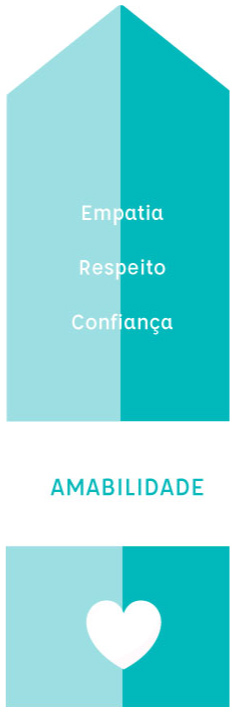
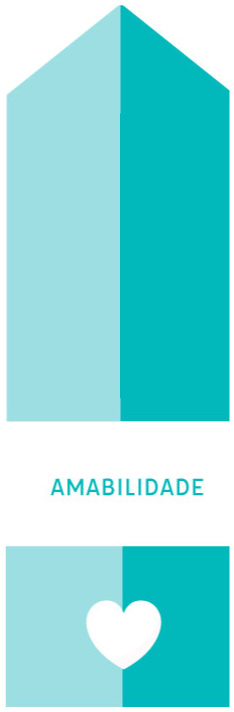
Mocc3 Uni2 revisão

Changed region(s): [[0.2991, 0.1545, 0.7479, 0.5562]]

diff --git a/mod3/uni2/tela05.html b/mod3/uni2/tela05.html
@@ -6,7 +6,8 @@
     <meta name="viewport" content="width=device-width, initial-scale=1" />
     <link rel="stylesheet" href="../../css/mooc3.css?ver=1.1"/>    
     <link rel="stylesheet" href="../../css/boxes.css?ver=1.2" />
-    <link rel="stylesheet" href="../../css/menu.css?ver=1.2"/>    
+    <link rel="stylesheet" href="../../css/menu.css?ver=1.2"/>
+    <link rel="stylesheet" href="../../css/ponto-interesse.css?ver=1.6"/>
        
 
     <!-- Botão de Voltar ao Topo -->
@@ -97,25 +98,117 @@
                         &nbsp
                     </div>
                     <div class="2u 4u$(small)" style="clear: none;">
-                        <img class="image fit" width="100%" src="../../img/uni2/MOOC3_Uni2_Tela5_Imagem1a.jpg">
+
+                        <!-- Ponto Interesse -->
+                        <div class="ponto-interesse cd-product cd-container">
+                            <div class="cd-product-wrapper">
+                                <img class="image fit" width="100%" src="../../img/uni2/MOOC3_Uni2_Tela5_Imagem1a.jpg">
+                                <ul>
+                                    <li class="cd-single-point mooc3-ponto1-uni2-tela5">
+                                        <a class="cd-img-replace" href="#0">More</a>
+                                        <div class="cd-more-info cd-top">
+                                            <h2>Autogestão:</h2>
+                                            <p>
+                                                &#10095; Determinação<br>&#10095; Organização<br>&#10095; Foco<br>&#10095; Persistência<br>&#10095; Responsabilidade
+                                            </p>
+                                            <a href="#0" class="cd-close-info cd-img-replace">Close</a>
+                                        </div>
+                                    </li> <!-- .cd-single-point -->
+                                </ul>
+                            </div> <!-- .cd-product-wrapper -->
+                        </div> <!-- .cd-product -->
+
                     </div>
                     <div class="2u 4u$(small)" style="clear: none;">
-                        <img class="image fit" width="100%" src="../../img/uni2/MOOC3_Uni2_Tela5_Imagem1b.jpg">
+                        <!-- Ponto Interesse -->
+                        <div class="ponto-interesse cd-product cd-container">
+                            <div class="cd-product-wrapper">
+                                <img class="image fit" width="100%" src="../../img/uni2/MOOC3_Uni2_Tela5_Imagem1b.jpg">
+                                <ul>
+                                    <li class="cd-single-point mooc3-ponto1-uni2-tela5">
+                                        <a class="cd-img-replace" href="#0">More</a>
+                                        <div class="cd-more-info cd-top">
+                                            <h2>Engajamento com os outros:</h2>
+                                            <p>
+                                                &#10095; Iniciativa Social<br>&#10095; Assertividade<br>&#10095; Entusiasmo
+                                            </p>
+                                            <a href="#0" class="cd-close-info cd-img-replace">Close</a>
+                                        </div>
+                                    </li> <!-- .cd-single-point -->
+                                </ul>
+                            </div> <!-- .cd-product-wrapper -->
+                        </div> <!-- .cd-product -->
+
                     </div>
                     <div class="2u 4u$(small)" style="clear: none;">
-                        <img class="image fit" width="100%" src="../../img/uni2/MOOC3_Uni2_Tela5_Imagem1c.jpg">
+                        <!-- Ponto Interesse -->
+                        <div class="ponto-interesse cd-product cd-container">
+                            <div class="cd-product-wrapper">
+                                <img class="image fit" width="100%" src="../../img/uni2/MOOC3_Uni2_Tela5_Imagem1c.jpg">
+                                <ul>
+                                    <li class="cd-single-point mooc3-ponto1-uni2-tela5">
+                                        <a class="cd-img-replace" href="#0">More</a>
+                                        <div class="cd-more-info cd-top">
+                                            <h2>Amabilidade:</h2>
+                                            <p>
+                                                &#10095; Empatia<br>&#10095; Respeito<br>&#10095; Confiança
+                                            </p>
+                                            <a href="#0" class="cd-close-info cd-img-replace">Close</a>
+                                        </div>
+                                    </li> <!-- .cd-single-point -->
+                                </ul>
+                            </div> <!-- .cd-product-wrapper -->
+                        </div> <!-- .cd-product -->
+
                     </div>
                     <div class="2u 4u$(small)" style="clear: none;">
-                        <img class="image fit" width="100%" src="../../img/uni2/MOOC3_Uni2_Tela5_Imagem1d.jpg">
+                        <!-- Ponto Interesse -->
+                        <div class="ponto-interesse cd-product cd-container">
+                            <div class="cd-product-wrapper">
+                                <img class="image fit" width="100%" src="../../img/uni2/MOOC3_Uni2_Tela5_Imagem1d.jpg">
+                                <ul>
+                                    <li class="cd-single-point mooc3-ponto1-uni2-tela5">
+                                        <a class="cd-img-replace" href="#0">More</a>
+                                        <div class="cd-more-info cd-top">
+                                            <h2>Resiliência emocional:</h2>
+                                            <p>
+                                                &#10095; Tolerância ao estresse<br>&#10095; Autoconfiança<br>&#10095; Tolerância à frustração
+                                            </p>
+                                            <a href="#0" class="cd-close-info cd-img-replace">Close</a>
+                                        </div>
+                                    </li> <!-- .cd-single-point -->
+                                </ul>
+                            </div> <!-- .cd-product-wrapper -->
+                        </div> <!-- .cd-product -->
+
                     </div>
                     <div class="2u 4u$(small)" style="clear: none;">
-                        <img class="image fit" width="100%" src="../../img/uni2/MOOC3_Uni2_Tela5_Imagem1e.jpg">
+                        <!-- Ponto Interesse -->
+                        <div class="ponto-interesse cd-product cd-container">
+                            <div class="cd-product-wrapper">
+                                <img class="image fit" width="100%" src="../../img/uni2/MOOC3_Uni2_Tela5_Imagem1e.jpg">
+                                <ul>
+                                    <li class="cd-single-point mooc3-ponto1-uni2-tela5">
+                                        <a class="cd-img-replace" href="#0">More</a>
+                                        <div class="cd-more-info cd-top">
+                                            <h2>Abertura ao novo:</h2>
+                                            <p>
+                                                &#10095; Curiosidade para aprender<br>&#10095; Imaginação criativa<br>&#10095; Interesse artístico
+                                            </p>
+                                            <a href="#0" class="cd-close-info cd-img-replace">Close</a>
+                                        </div>
+                                    </li> <!-- .cd-single-point -->
+                                </ul>
+                            </div> <!-- .cd-product-wrapper -->
+                        </div> <!-- .cd-product -->
+
                     </div>
                     <div class="1u 12u$(small)">
                         &nbsp
                     </div>
                 </div>
                 <p class="legenda-img">Figura 06 - Fonte: Imagem desenvolvida pela equipe gráfica do projeto.</p>
+                <script src="../../js/main.js"></script> <!-- Resource jQuery -->
             </div>
 
             <div class="content">

diff --git a/css/ponto-interesse.css b/css/ponto-interesse.css
@@ -512,7 +512,7 @@ Main components
 /* Mooc3 Uni2 Tela 2 */
 .mooc3-uni2-tela2 .cd-single-point .cd-more-info{
   width: 400px;
-  height: 250px;
+  height: 300px;
 }
 
 
@@ -811,6 +811,12 @@ Main components
 .cd-single-point.mooc3-ponto3-uni1-tela7{
   top: 70%;
   left: 10%;
+}
+
+/* Mooc3 Uni2 tela 5*/
+.cd-single-point.mooc3-ponto1-uni2-tela5{
+  top: 30%;
+  left: 30%;
 }
 
 
